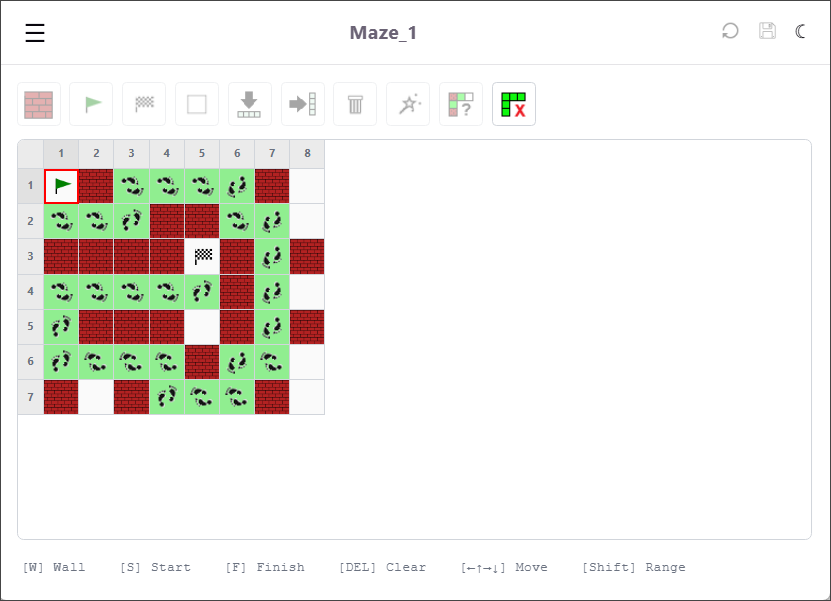
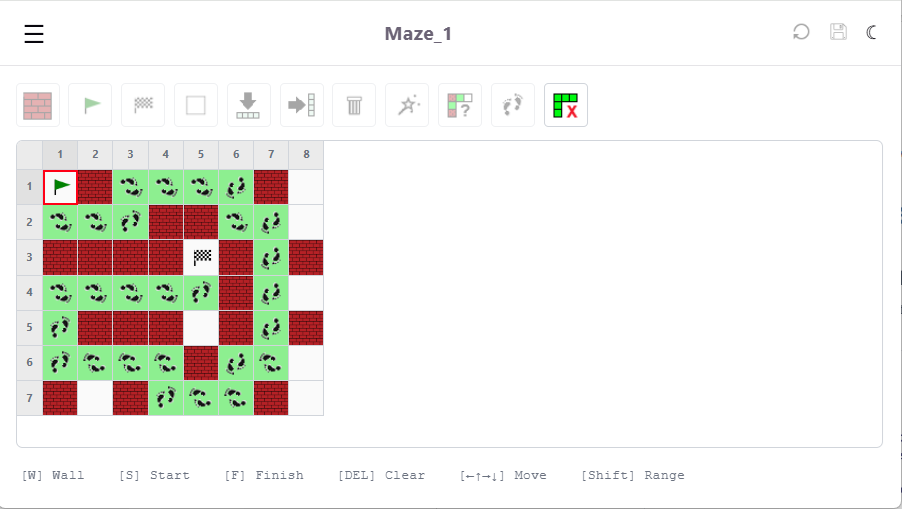
maze_web_server (rust/React): update screenshots and  content in repo README.md

diff --git a/README.md b/README.md
@@ -6,7 +6,7 @@
 [![License: MIT](https://img.shields.io/badge/License-MIT-yellow.svg)](./LICENSE)
 [![Documentation](https://img.shields.io/badge/docs-GitHub%20Pages-blue)](https://budgiedownunder.github.io/maze/)
 
-A multi-language experimental project exploring **Rust**, **C# (.NET 10)**, and **WebAssembly** interoperability. Built around a maze generation and solving domain, it demonstrates library crates, REST APIs, WASM bindings, OpenAPI, a cross-platform MAUI app, Node.js-based API testing, architecture diagramming with PlantUML, documentation generation with DocFX, and automated CI/CD across Windows, macOS, and Linux.
+A multi-language experimental project exploring **Rust**, **C# (.NET 10)**, **React.js**, **TypeScript** and **WebAssembly** interoperability. Built around a maze generation and solving domain, it demonstrates library crates, REST APIs, WASM bindings, OpenAPI, a cross-platform MAUI app, a React.js SPA, Node.js-based API testing, architecture diagramming with PlantUML, documentation generation with DocFX, and automated CI/CD across Windows, macOS, and Linux.
 
 ## Table of Contents
 - [Introduction](#introduction)
@@ -44,13 +44,13 @@ At this stage, the following areas are covered:
   - Supports interactive documentation in the form of [RapiDoc](https://rapidocweb.com/), [Redoc](https://redocly.com/redoc) and [Swagger UI](https://swagger.io/tools/swagger-ui/)
   - Serves a React Single Page Application (SPA) from a configurable static directory
 
-- Implementing a `React`/`TypeScript` web frontend ([`maze_react_web`](./src/react/maze_web_server/README.md)) that provides a browser-based UI for the `maze_web_server` REST API including maze management and generation/solving (run entirely in-browser via the `maze_wasm` WebAssembly module). Testing with [Vitest](https://vitest.dev/), [React Testing Library](https://testing-library.com/), [Mock Service Worker](https://mswjs.io/), and [Playwright](https://playwright.dev/)
+- Implementing a `React`/`TypeScript` web frontend ([`maze_web_server`](./src/react/maze_web_server/README.md)) that provides a browser-based UI for the `maze_web_server` REST API including maze management, generate, solve and walk solution animation (run entirely in-browser via the `maze_wasm` WebAssembly module). Testing with [Vitest](https://vitest.dev/), [React Testing Library](https://testing-library.com/), [Mock Service Worker](https://mswjs.io/), and [Playwright](https://playwright.dev/)
 
 - Implementing a `.NET` to Web Assembly ([`maze_wasm`](./src/rust/maze_wasm/README.md)) interop library ([`Maze.Interop`](./src/csharp/Maze.Interop/README.md)) in `C#` that supports [Wasmtime](https://docs.wasmtime.dev/) (for `Windows` and `Android`), [Wasmer](https://wasmer.io/) (for `Android` and `iOS` simulator), and a native C library via [`maze_c`](./src/rust/maze_c/README.md) (for `iOS`simulator and physical device)
 
 - Implementing automated `.NET` API testing with `xUnit` ([`Maze.Interop.Tests`](./src/csharp/Maze.Interop.Tests/README.md))
 
-- Implementing a `C#` [MAUI](https://dotnet.microsoft.com/en-us/apps/maui) application ([`Maze.Maui.App`](./src/csharp/Maze.Maui.App/README.md)) that utilises an underlying Web Assembly interop library ([`Maze.Interop`](./src/csharp/Maze.Interop/README.md)) via a wrapper API ([`Maze.Api`](./src/csharp/Maze.Api/README.md)), with user account self-management (sign-up, sign-in, edit profile, change password, delete account) and maze management (create, save, delete, rename, edit, solve, generate)
+- Implementing a `C#` [MAUI](https://dotnet.microsoft.com/en-us/apps/maui) application ([`Maze.Maui.App`](./src/csharp/Maze.Maui.App/README.md)) that utilises an underlying Web Assembly interop library ([`Maze.Interop`](./src/csharp/Maze.Interop/README.md)) via a wrapper API ([`Maze.Api`](./src/csharp/Maze.Api/README.md)), with user account self-management (sign-up, sign-in, edit profile, change password, delete account) and maze management (create, save, delete, rename, edit, generate, solve, walk solution)
 - Automating `C#` API documentation generation with `DocFX`
 
 - Combining `C#` and `Rust` documentation into a single HTML help system with use of `iFrame` containers
@@ -104,9 +104,10 @@ The following components are present:
 
 The Maze MAUI application running on Windows, iOS, and Android, showing a solved maze.
 
-| Windows | iOS | Android |
-|---------|-----|---------|
-| <img src="./src/csharp/Maze.Maui.App/Screenshots/windows-solved.png" width="250"> | <img src="./src/csharp/Maze.Maui.App/Screenshots/ios-solved.png" width="250"> | <img src="./src/csharp/Maze.Maui.App/Screenshots/android-solved.png" width="250"> |
+| | Windows | iOS | Android |
+|---|---------|-----|---------|
+| **Solved** | <img src="./src/csharp/Maze.Maui.App/Screenshots/windows-solved.png" width="250"> | <img src="./src/csharp/Maze.Maui.App/Screenshots/ios-solved.png" width="250"> | <img src="./src/csharp/Maze.Maui.App/Screenshots/android-solved.png" width="250"> |
+| **Walk Solution** | <img src = "./src/csharp/Maze.Maui.App/Screenshots/windows-walk.png" width="250"> | <img src = "./src/csharp/Maze.Maui.App/Screenshots/ios-walk.png" width="250"> | <img src = "./src/csharp/Maze.Maui.App/Screenshots/android-walk.png" width="250"> |
 
 ### Web UI
 
@@ -121,7 +122,14 @@ The mazes list page, showing the user's mazes.
 **Maze editor**
 
 The maze editor page, showing a solved maze.
+
 <img src="./src/react/maze_web_server/screenshots/web-solved.png" width="600">
+
+**Walk Solution**
+
+The maze editor animating a step-by-step walk of the solution path.
+
+<img src="./src/react/maze_web_server/screenshots/web-walk.gif" width="600">
 
 ## Getting Started
 
